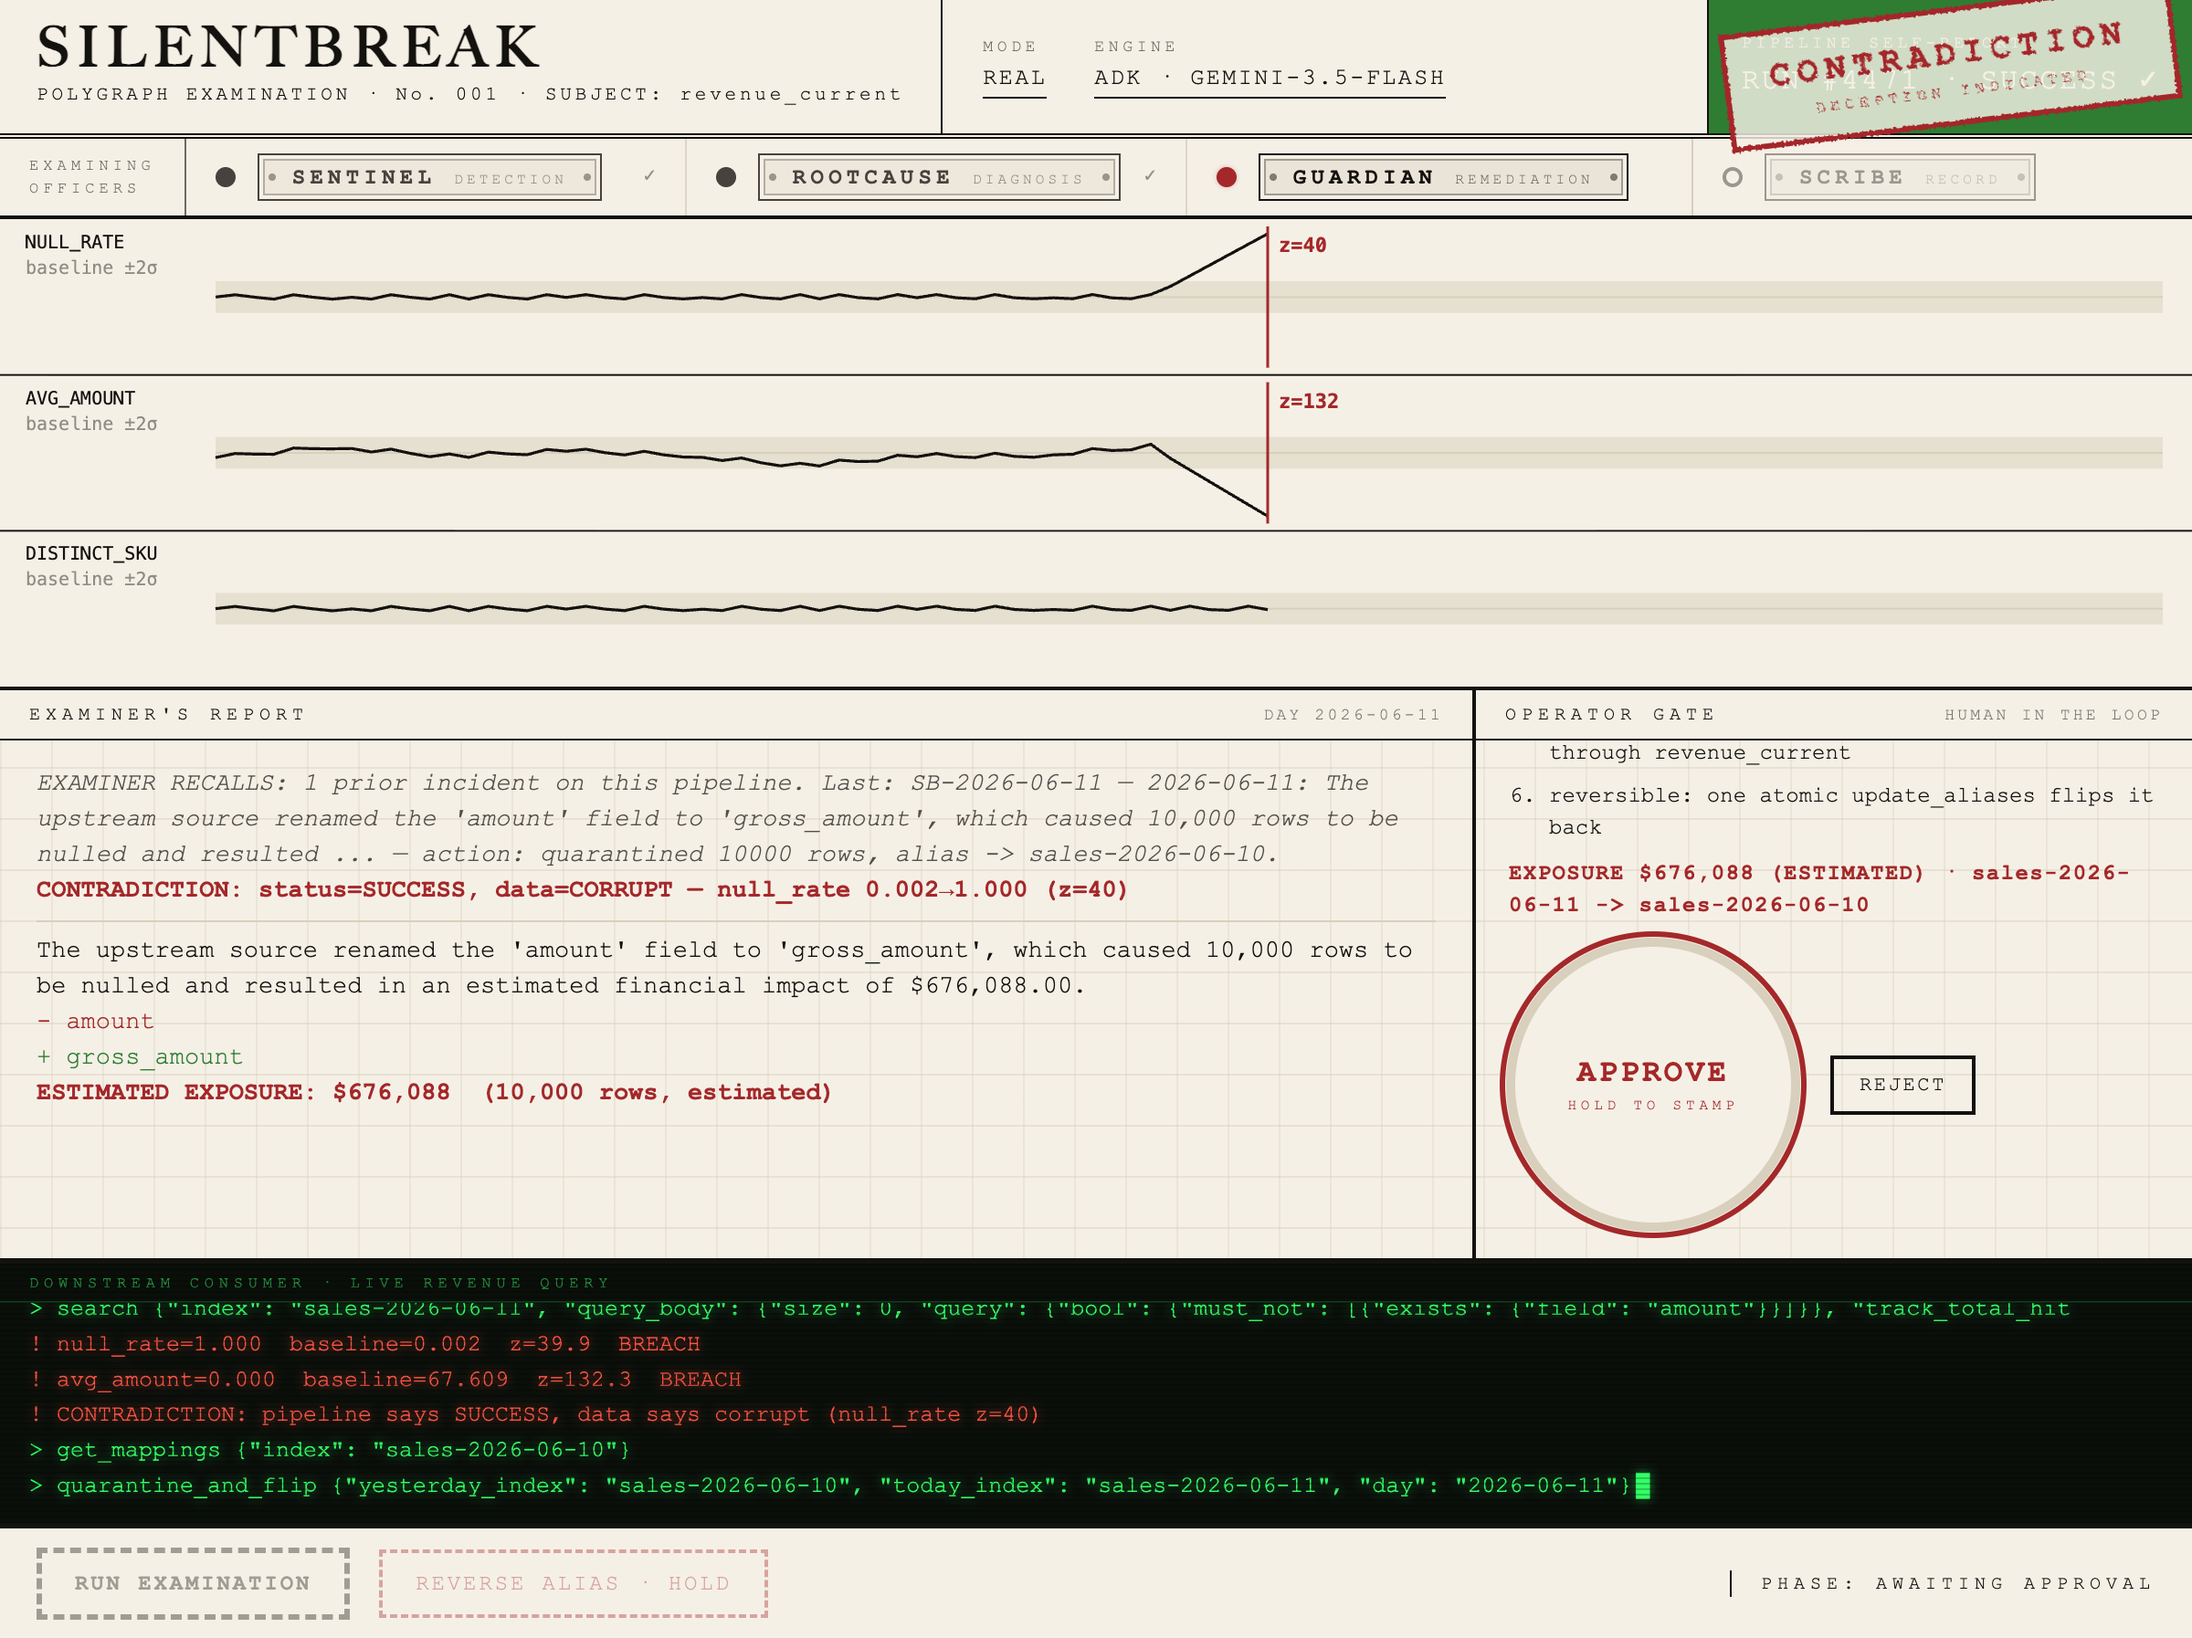
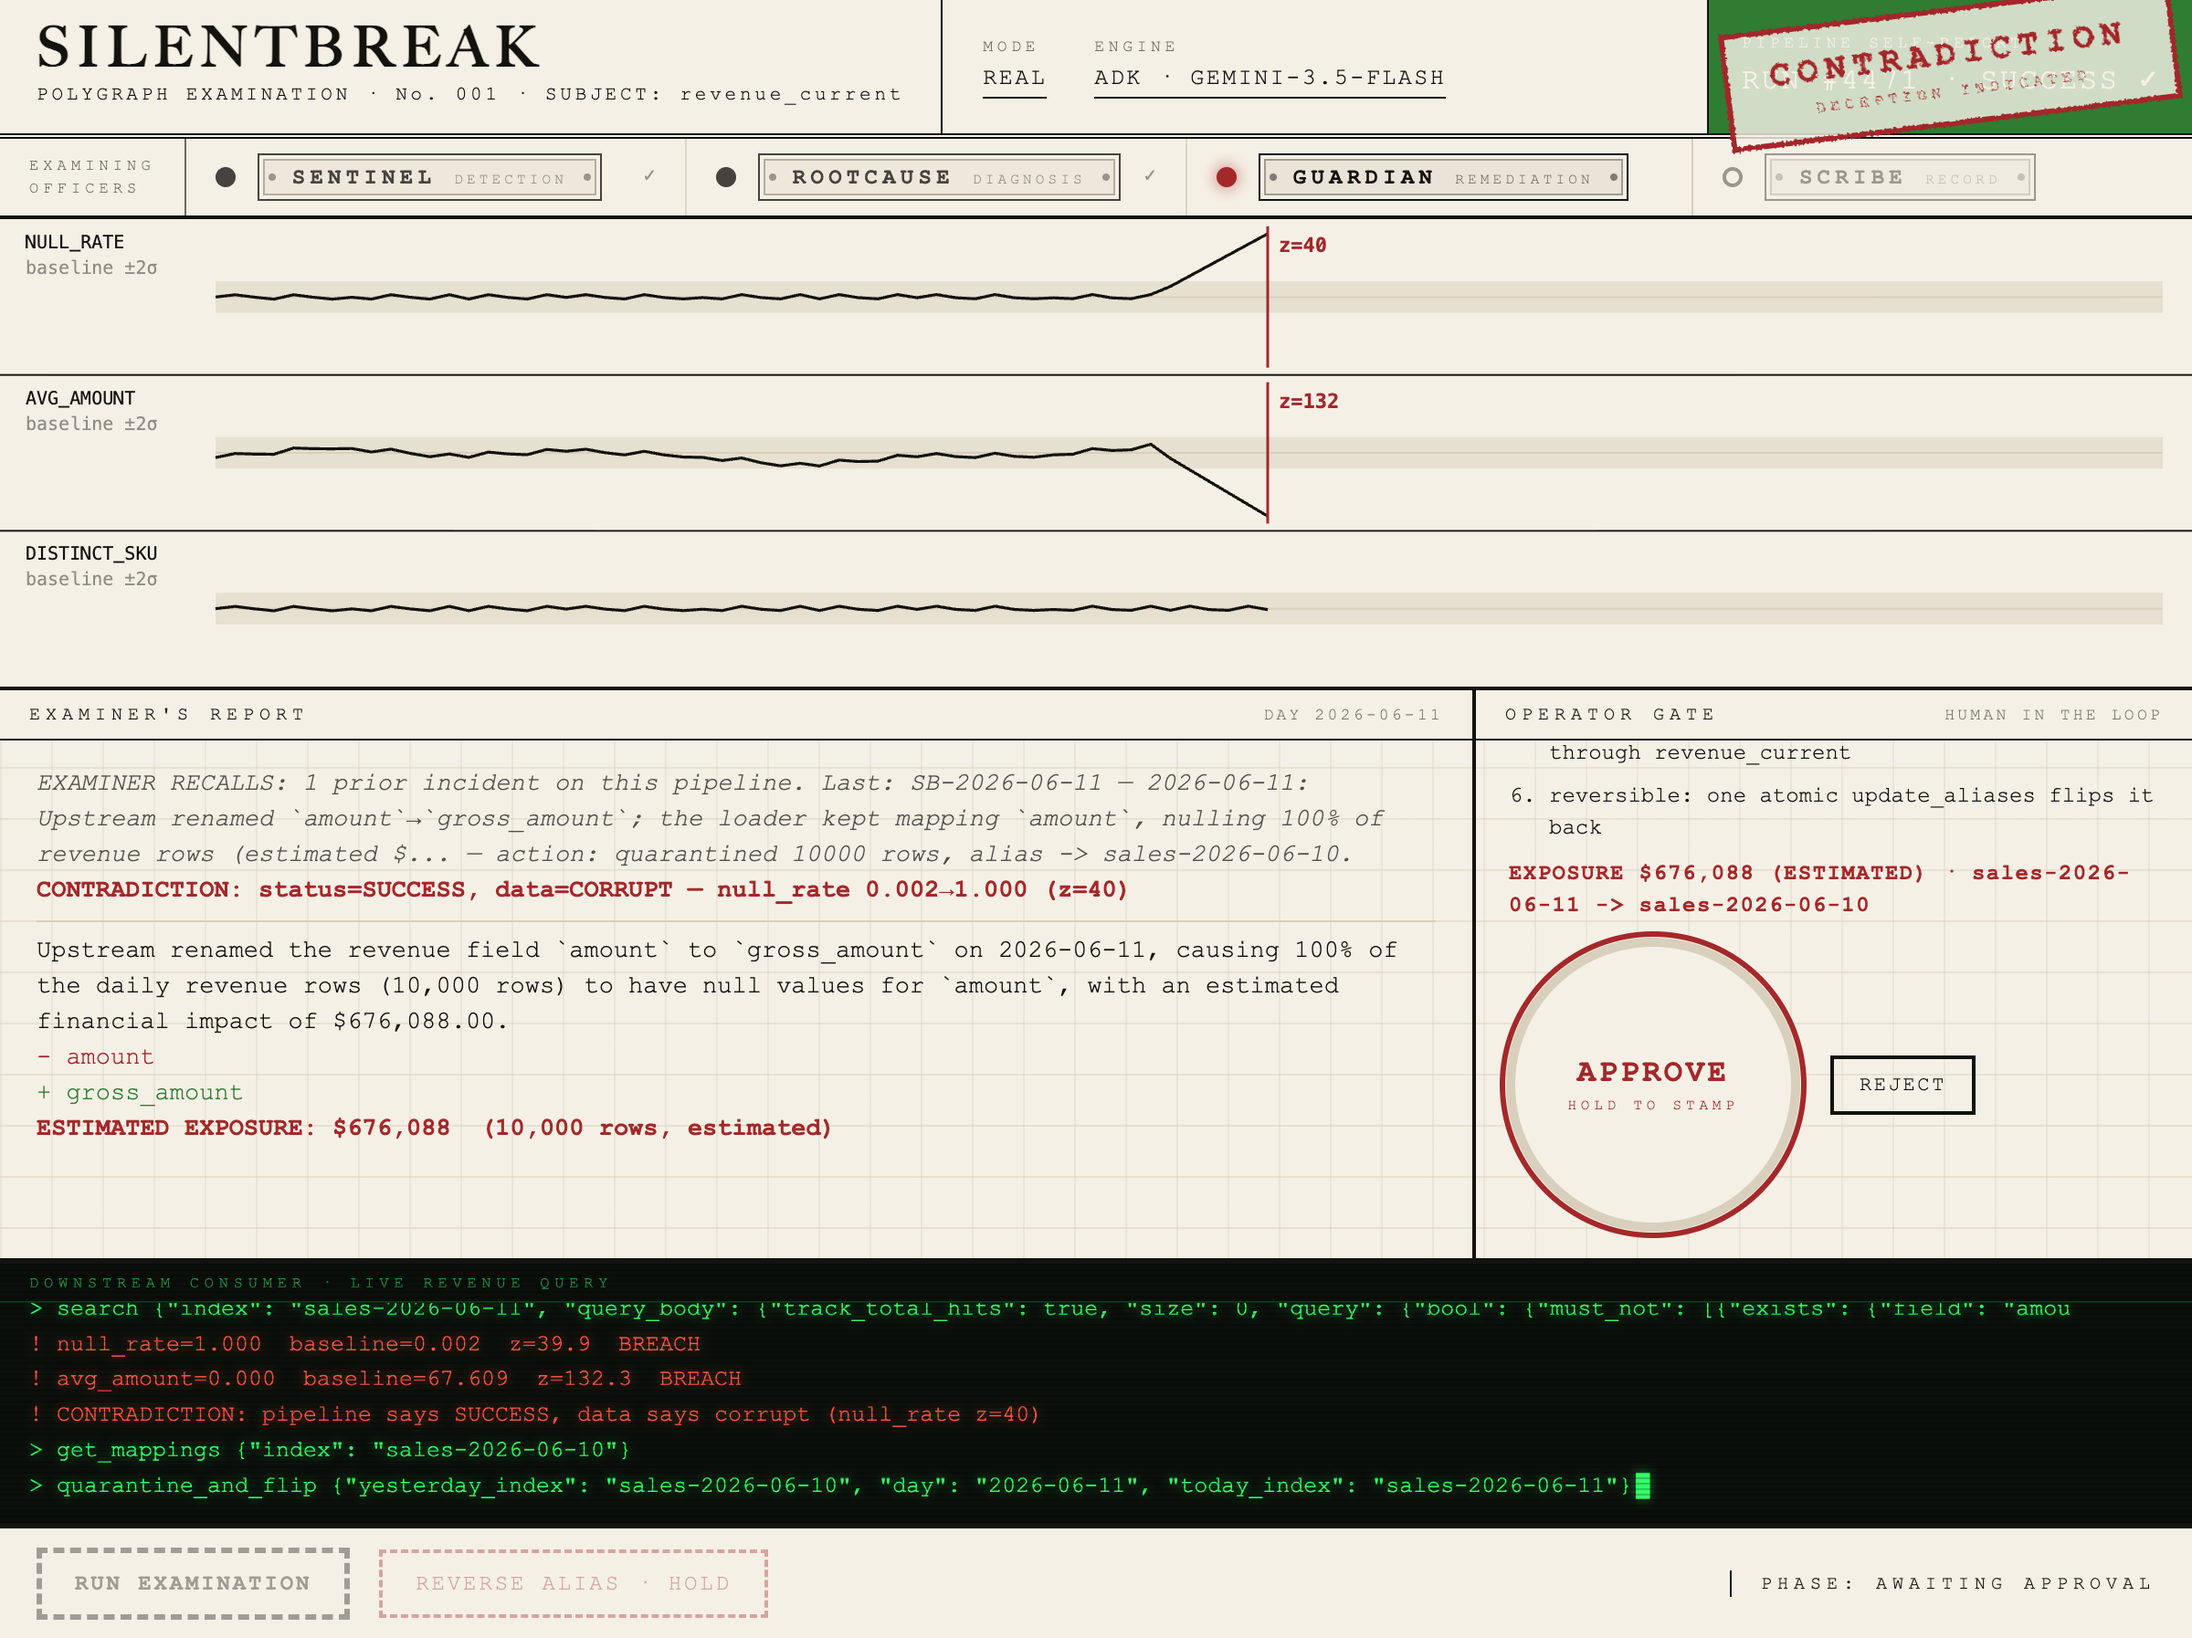
Engine idle watchdog + defensive ES|QL prompt; reshoot screenshots with audited z
- A Gemini/MCP call can hang silently (observed live: ES|QL 400 on the
  mutated column, then no further events) — the watchdog declares the ADK
  engine hung after 120s of silence (gate time excluded) so the existing
  pre/post-approval failure paths fire instead of wedging the run.
  Live-validated: a hung run fell back to the labeled deterministic engine.
- Sentinel prompt: never name the revenue field in ES|QL (hard-errors on
  unknown columns); at most one retry per failed tool call.
- README screenshots re-captured from a fresh live ADK run: chart, teletype,
  and contradiction z now all carry the server-audited arithmetic.

diff --git a/app/main.py b/app/main.py
@@ -61,6 +61,7 @@ class RunRecord:
     reversed: bool = False
     incident: dict | None = None
     started_at: float = field(default_factory=time.monotonic)
+    last_event_at: float = field(default_factory=time.monotonic)
 
 
 # On Cloud Run, CPU is throttled when no request is in flight, so a run whose
@@ -121,6 +122,7 @@ def latest_record() -> RunRecord | None:
 
 def _tracking_emit(rec: RunRecord):
     async def emit(type_: str, data: dict) -> None:
+        rec.last_event_at = time.monotonic()
         if type_ in PHASE_BY_EVENT:
             rec.phase = PHASE_BY_EVENT[type_]
         elif type_ == "run_complete":
@@ -128,6 +130,38 @@ def _tracking_emit(rec: RunRecord):
                 data.get("result", ""), "vetoed")
         await rec.bus.emit(type_, data)
     return emit
+
+
+class EngineHung(Exception):
+    pass
+
+
+# A Gemini/MCP call with no client timeout can hang silently forever — it
+# never raises, so the fallback path never fires. The watchdog declares the
+# engine hung when nothing has been emitted for this long, EXCEPT while the
+# run is parked at the human approval gate (operator thinking time is not a
+# hang; the gate has its own TTL).
+ENGINE_IDLE_LIMIT_SECONDS = 120.0
+
+
+async def _with_watchdog(rec: RunRecord, coro) -> dict | None:
+    task = asyncio.create_task(coro)
+    try:
+        while True:
+            done, _ = await asyncio.wait({task}, timeout=10)
+            if done:
+                return task.result()
+            idle = time.monotonic() - rec.last_event_at
+            if rec.phase != "awaiting_approval" and idle > ENGINE_IDLE_LIMIT_SECONDS:
+                raise EngineHung(
+                    f"engine emitted nothing for {int(idle)}s (phase={rec.phase})")
+    finally:
+        if not task.done():
+            task.cancel()
+            try:
+                await task
+            except BaseException:
+                pass
 
 
 # ------------------------------------------------- mock data (same story as
@@ -222,8 +256,8 @@ async def _execute_run(rec: RunRecord, event: dict | None, engine: str,
 
         if engine == "adk":
             try:
-                rec.result = await adk_pipeline.run_adk(
-                    client, event, emit, rec.run_id, pace=pace)
+                rec.result = await _with_watchdog(rec, adk_pipeline.run_adk(
+                    client, event, emit, rec.run_id, pace=pace))
             except Exception as exc:
                 if registry.state(rec.run_id) == "approved":
                     # The approval token was already minted (and possibly

diff --git a/agents/adk_pipeline.py b/agents/adk_pipeline.py
@@ -248,8 +248,12 @@ async def run_adk(client, event: dict, emit: Emit, run_id: str, *,
             f"(FROM {today} | STATS ...) for row_count and COUNT_DISTINCT(sku); use the "
             f"search tool with a bool must_not exists query on `{config.REVENUE_FIELD}` "
             f"(size 0, track_total_hits true) to count rows missing revenue; compute "
-            f"null_rate = missing/row_count. Do NOT run AVG on a field that may not "
-            f"exist; if `{config.REVENUE_FIELD}` is absent from get_mappings, avg_amount=0. "
+            f"null_rate = missing/row_count. CRITICAL: ES|QL hard-errors on unknown "
+            f"columns and `{config.REVENUE_FIELD}` may have been mutated away, so your "
+            f"esql STATS may ONLY use COUNT(*) and COUNT_DISTINCT(sku) — never name "
+            f"`{config.REVENUE_FIELD}` in an esql query. If get_mappings shows "
+            f"`{config.REVENUE_FIELD}` absent, avg_amount=0. If any tool call errors, "
+            f"do not retry it more than once — proceed with the data you have. "
             f"z = abs(value-mean)/std per metric. Output JSON: "
             '{"checks": [{"metric": str, "value": num, "baseline_mean": num, '
             '"baseline_std": num, "z": num, "breach": bool}], '

diff --git a/README.md b/README.md
@@ -4,7 +4,7 @@
 
 ![The operator gate: live ADK · Gemini 3.5 Flash run paused at the press-and-hold APPROVE stamp](docs/img/ui-gate.png)
 
-*A live run captured on 2026-06-11 — engine badge `REAL / ADK · GEMINI-3.5-FLASH`, the agent rail lit, the EXAMINER RECALLS memory line, MCP tool calls on the teletype, and the run paused at the operator gate. The body text's z=40 is `null_rate` (the floor-regularized headline metric); the z=132 inked here is `avg_amount`, which Gemini chose to lead with on this run. Sharp eyes will spot the chart annotation (z=48) disagreeing with the teletype's audited arithmetic (z=39.9): that frame emitted Gemini's self-reported z — exactly why the deterministic math, not the model, feeds the approval gate, and why `sentinel_check` events are now recomputed server-side from the baseline store before they reach the stream. The [resolved state](docs/img/ui-resolved.png) shows Gemini's filed report: `FILED SB-2026-06-11 · ENGINE adk · REPORT BY gemini-3.5-flash`.*
+*A live run captured on 2026-06-11 — engine badge `REAL / ADK · GEMINI-3.5-FLASH`, the agent rail lit, the EXAMINER RECALLS memory line, MCP tool calls on the teletype, and the run paused at the operator gate. The body text's z=40 is `null_rate` (the floor-regularized headline metric); the z=132 inked here is `avg_amount` (baseline 67.61, σ 0.51 — the arithmetic checks out), which Gemini chose to lead with on this run. Every z on the stream is recomputed server-side from the baseline store — Gemini reports what it saw, but the model's self-reported arithmetic never reaches the operator gate. The [resolved state](docs/img/ui-resolved.png) shows Gemini's filed report: `FILED SB-2026-06-11 · ENGINE adk · REPORT BY gemini-3.5-flash`.*
 
 **Live demo:** https://silentbreak-941948267289.us-central1.run.app (mock mode, zero secrets, fully interactive — press RUN EXAMINATION)
 
